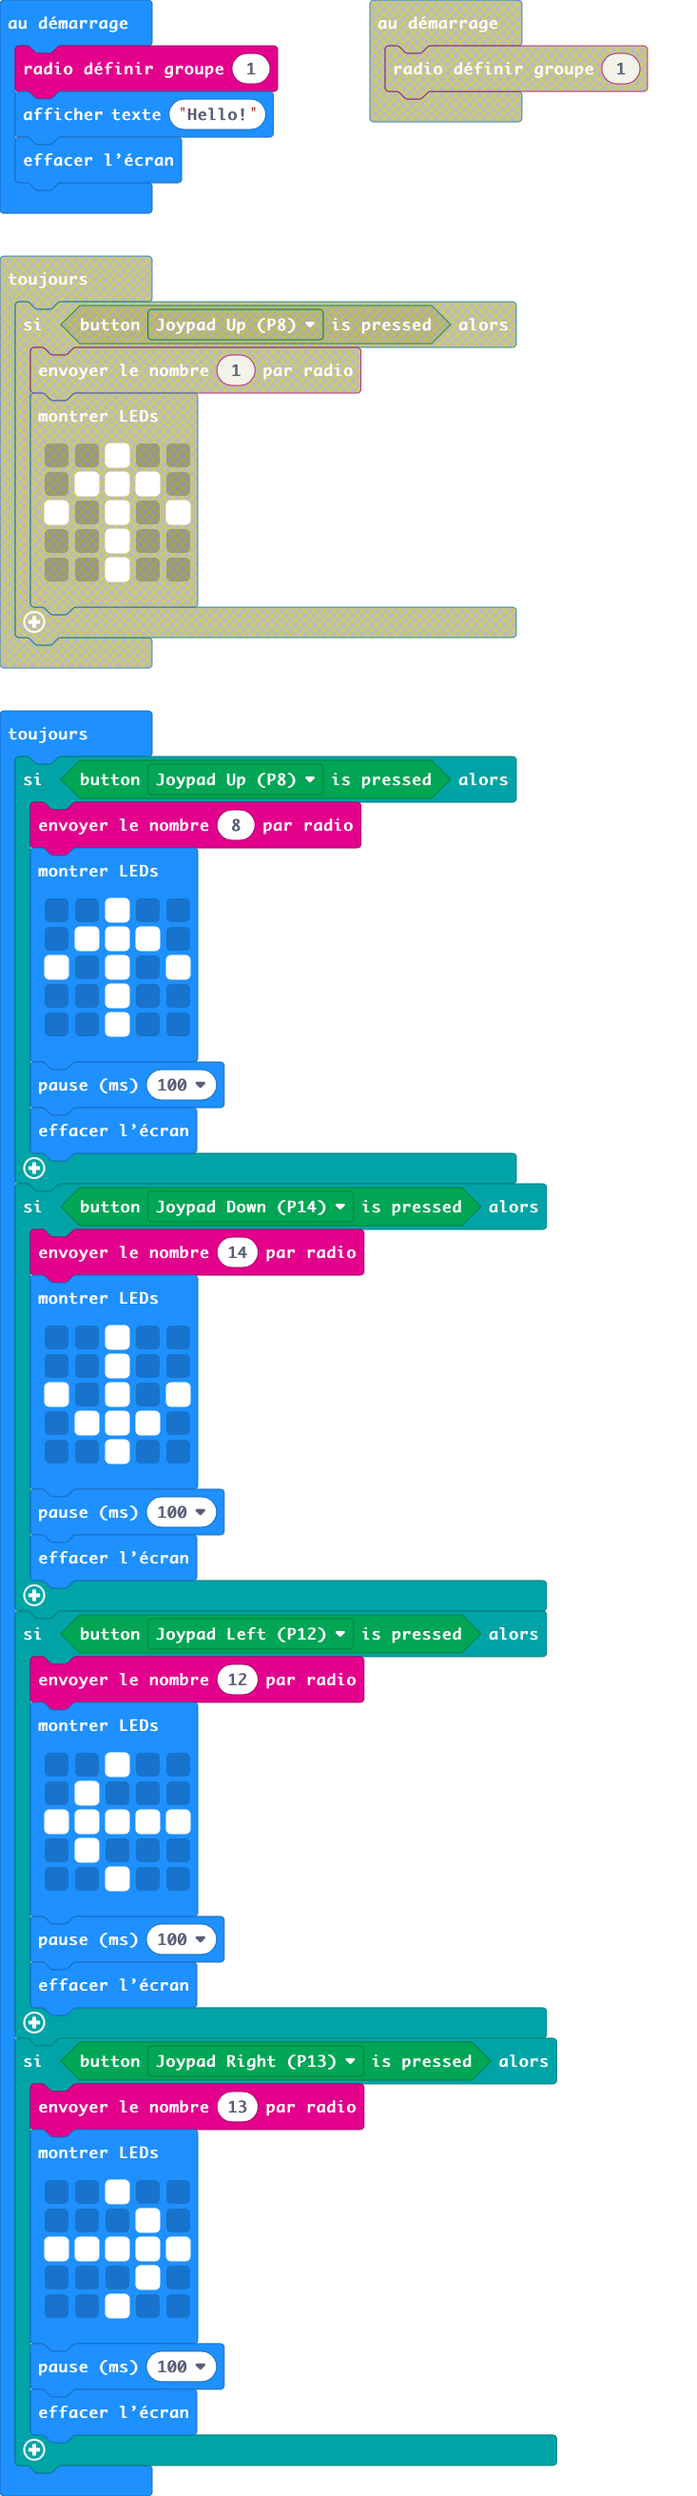
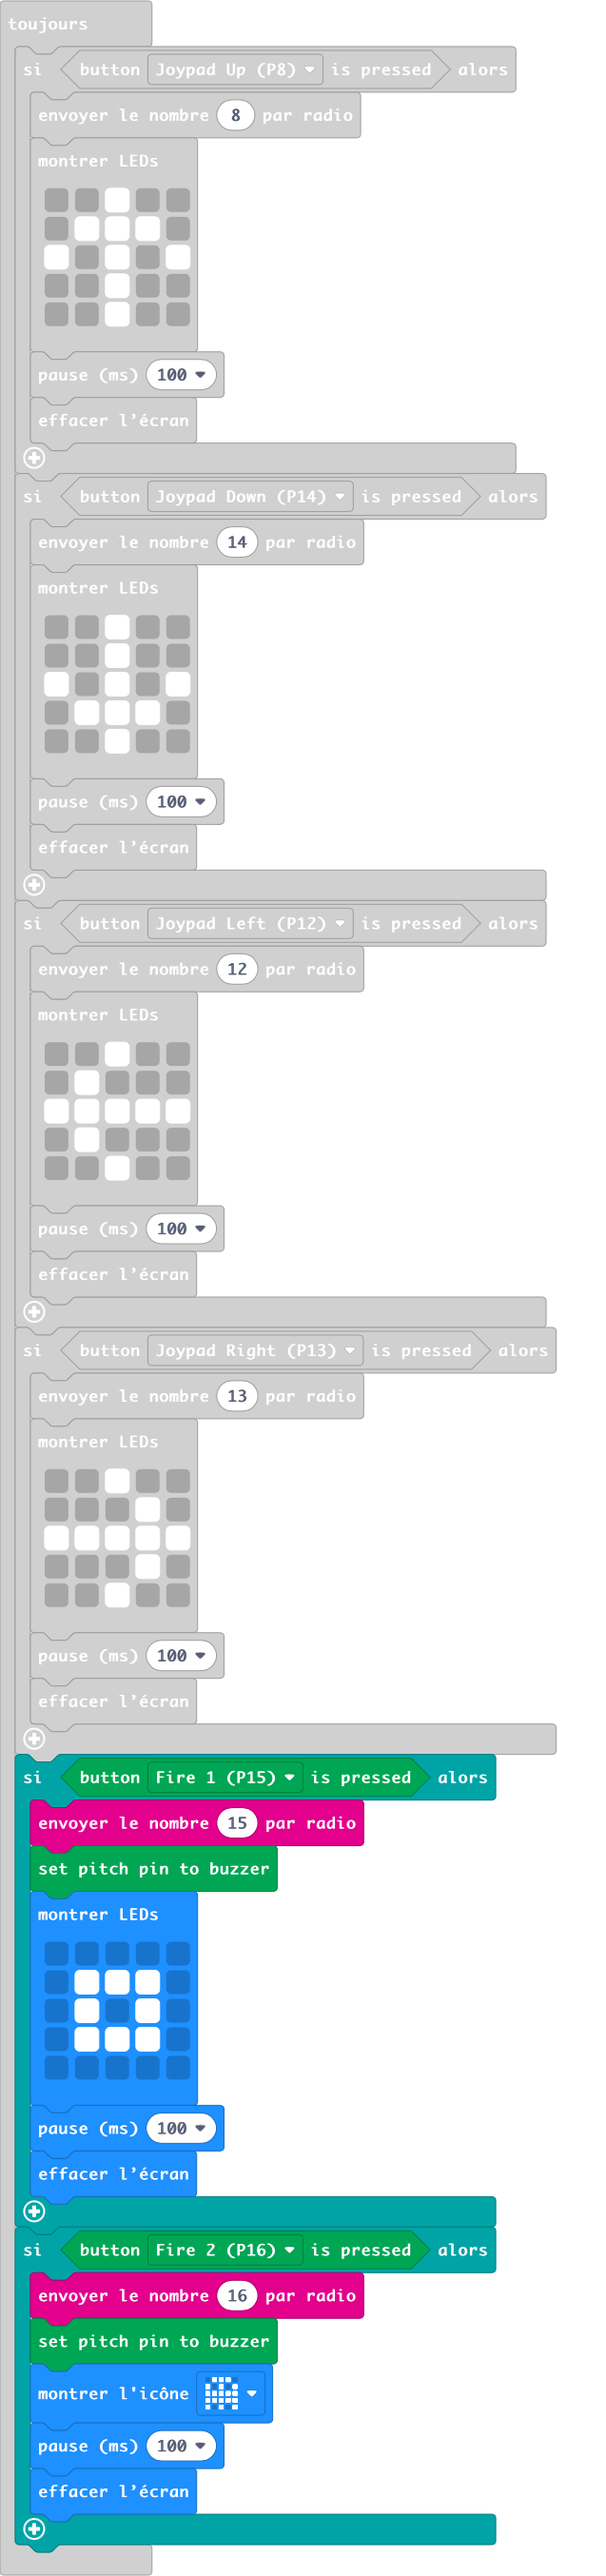
Mise à jour main.blocks, main.ts

diff --git a/main.ts b/main.ts
@@ -50,4 +50,24 @@ basic.forever(function () {
         basic.pause(100)
         basic.clearScreen()
     }
+    if (Kitronik_Game_Controller.buttonIsPressed(Kitronik_Game_Controller.ControllerButtonPins.Fire1)) {
+        radio.sendNumber(15)
+        Kitronik_Game_Controller.setBuzzerPin()
+        basic.showLeds(`
+            . . . . .
+            . # # # .
+            . # . # .
+            . # # # .
+            . . . . .
+            `)
+        basic.pause(100)
+        basic.clearScreen()
+    }
+    if (Kitronik_Game_Controller.buttonIsPressed(Kitronik_Game_Controller.ControllerButtonPins.Fire2)) {
+        radio.sendNumber(16)
+        Kitronik_Game_Controller.setBuzzerPin()
+        basic.showIcon(IconNames.Ghost)
+        basic.pause(100)
+        basic.clearScreen()
+    }
 })
